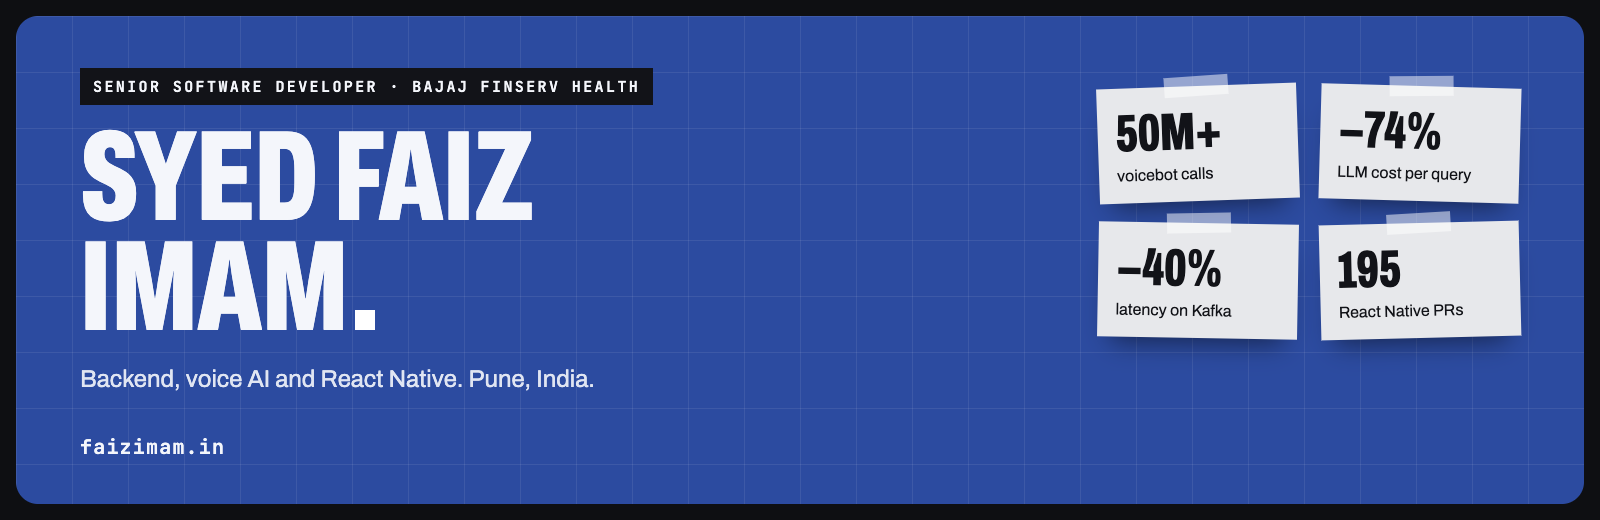
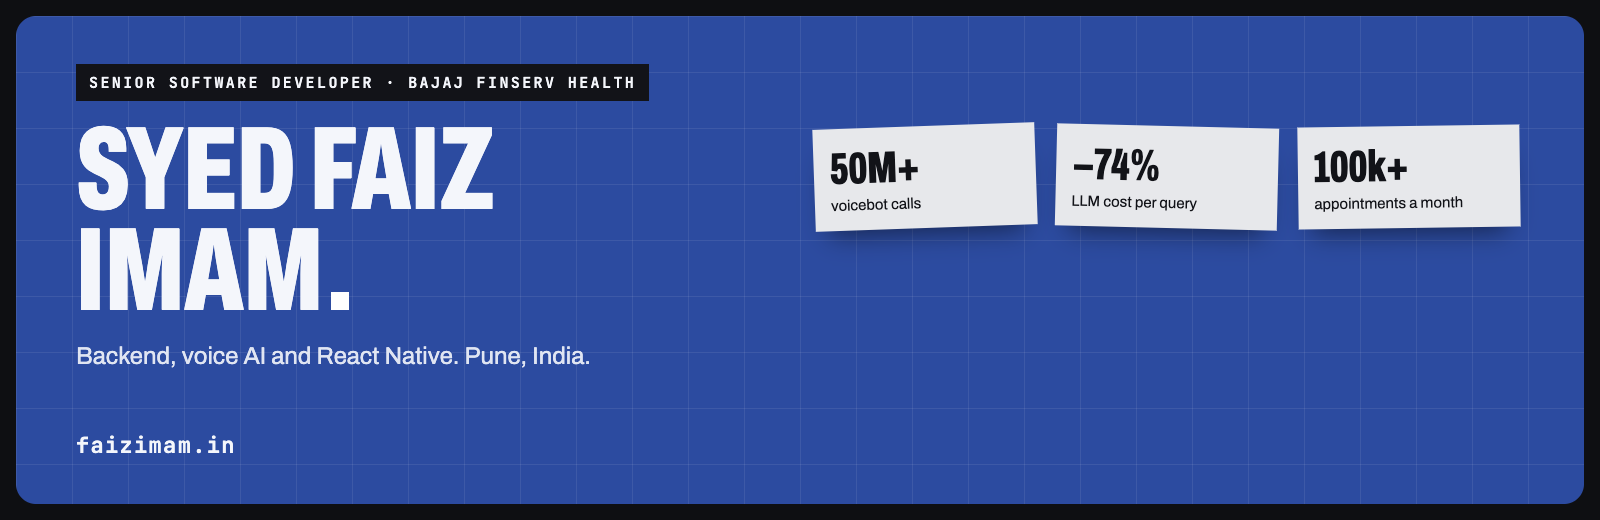
Show appointments a month instead of a commit count

diff --git a/README.md b/README.md
@@ -1,7 +1,7 @@
 <a href="https://faizimam.in">
   <picture>
     <source media="(prefers-color-scheme: dark)" srcset="assets/banner-dark.png">
-    <img alt="Syed Faiz Imam (Faiz Imam), Senior Software Developer at Bajaj Finserv Health, Pune: 50M+ voicebot calls, 74% lower LLM cost, 195 React Native PRs" src="assets/banner-light.png" width="100%">
+    <img alt="Syed Faiz Imam (Faiz Imam), Senior Software Developer at Bajaj Finserv Health, Pune: 50M+ voicebot calls, 74% lower LLM cost, 100k+ appointments a month" src="assets/banner-light.png" width="100%">
   </picture>
 </a>
 
@@ -23,7 +23,7 @@ Syed Faiz Imam, Senior Software Developer at **Bajaj Finserv Health** in Pune. I
 | :-- | :--- | :--- |
 | 01 | **[Voicebot platform](https://faizimam.in/work/voice)**: the backend of automated healthcare calls, moved from a polled database table to Kafka | 50M+ calls · −40% latency at 2× traffic |
 | 02 | **[GPT-4o out, a fine-tuned model in](https://faizimam.in/work/llm)**: Qwen2.5-VL 32B trained on production queries | ₹0.30 → ₹0.078 a query · −74% · 95% accuracy |
-| 03 | **[DRx, the clinic app](https://faizimam.in/work/drx)**: React Native for doctors and receptionists: Add Appointment, bulk WhatsApp, My Chats | 195 merged PRs · 100k+ appointments a month |
+| 03 | **[DRx, the clinic app](https://faizimam.in/work/drx)**: React Native for doctors and receptionists: Add Appointment, bulk WhatsApp, My Chats | 100k+ appointments a month · 60k patient records |
 | 04 | **[Sales portal](https://faizimam.in/work/rm)**: doctor discovery, AI pitches, meetings and lab bookings on one backend | +25% sales efficiency |
 | 05 | **[Vehicle damage detection](https://faizimam.in/work/damage)**: a vision LLM plus a custom model for motor claims | module owner · in progress |
 | 06 | **[Bluetooth wellness kiosk](https://faizimam.in/work/kiosk)**: React Native and a BLE body-composition scale | 22 readings · 600+ entries |
